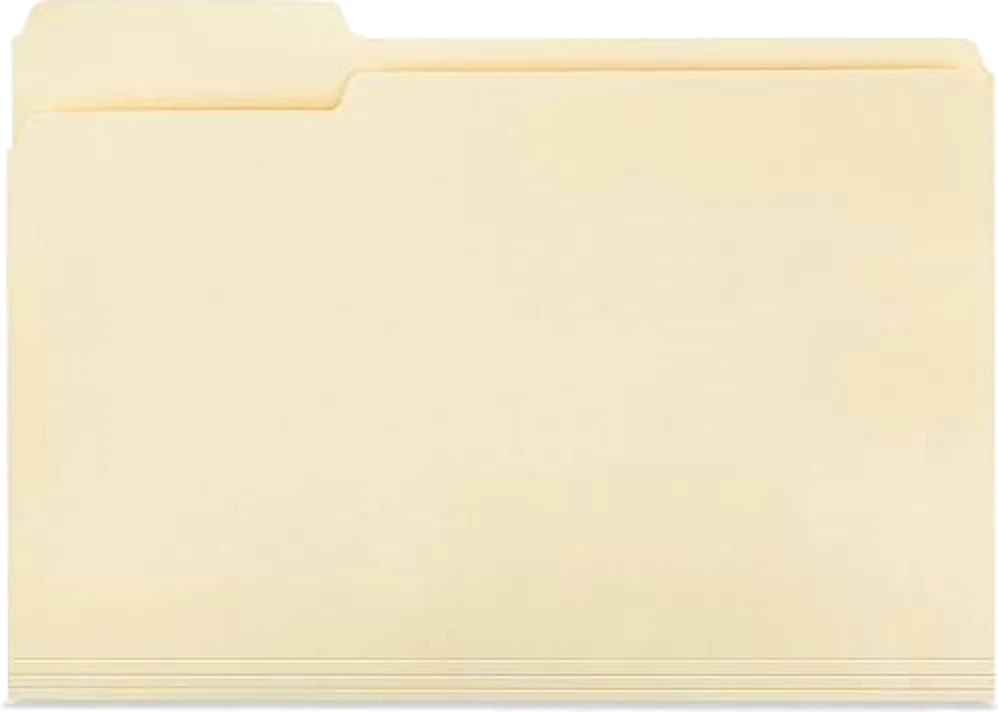
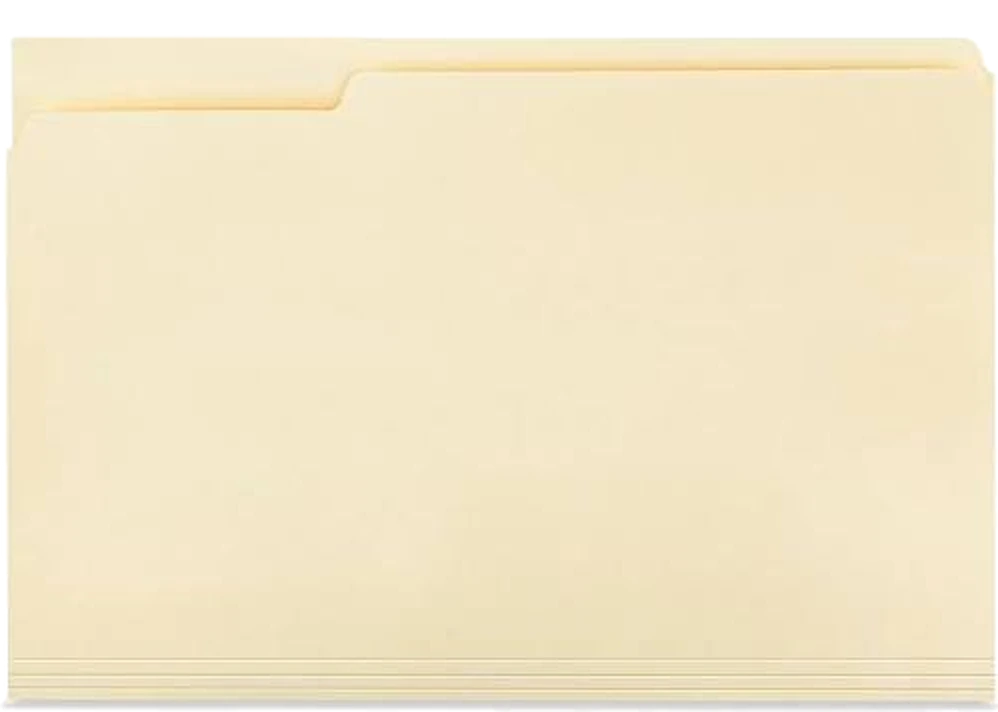
The tab belongs to the back half
The folder opened to show a tab that was never the one you had been
looking at, and that was a construction error rather than a rendering one.

On a real folder the tab is cut into the back half. That is the whole
reason it stands above the front when the thing is shut. I had given it to
the front half, so on opening it swung away with the leaf and the back's
own tab appeared behind it — two tabs, neither where it had been.

The back is now the whole folder, tab included, and never moves. The front
is the body only: a straight top edge at the shoulder, no tab, hinged on
its foot. One tab, fixed, exactly where it was when closed.

Changed region(s): [[0.0, 0.0, 0.3727, 0.0618]]

diff --git a/src/components/file/folder.tsx b/src/components/file/folder.tsx
@@ -7,9 +7,16 @@ import { asset } from "@/lib/asset";
 /*
  * A folder that opens, cut from one photograph of a closed one.
  *
- * Two assets, both from the same picture: the whole folder as the back leaf,
- * and the tab-plus-body as the front leaf, which hinges forward on its foot.
- * Papers go between the two.
+ * Two halves, both cut from the same picture.
+ *
+ * The back half is the whole folder, tab included — on a real folder the tab
+ * belongs to the back, which is exactly why it stands above the front when the
+ * thing is shut. The front half is the body only: a straight top edge at the
+ * shoulder and no tab at all, hinged on its foot. Papers go between them.
+ *
+ * Giving the tab to the front half is what produced the glitch: it swung away
+ * with the leaf and the back's own tab appeared behind it, so the folder
+ * opened to show a tab that was never the one you had been looking at.
  *
  * Both were cut at 4x and brought back down so the die and the keyed ground
  * land with sub-pixel edges. A CSS clip-path did this before and the diagonal
@@ -18,9 +25,8 @@ import { asset } from "@/lib/asset";
  * flooded in from the corners now, so nothing enclosed by the folder is ever
  * touched.
  *
- * The cut is measured, not guessed: the shoulder reads at 5.3% of the height
- * and the tab runs to 33.7% of the width. The 9.7% used before was the fold
- * score, which is a different line further down.
+ * The shoulder is measured, not guessed: it reads at 5.3% of the height. The
+ * 9.7% used before was the fold score, a different line further down.
  */
 
 /*
